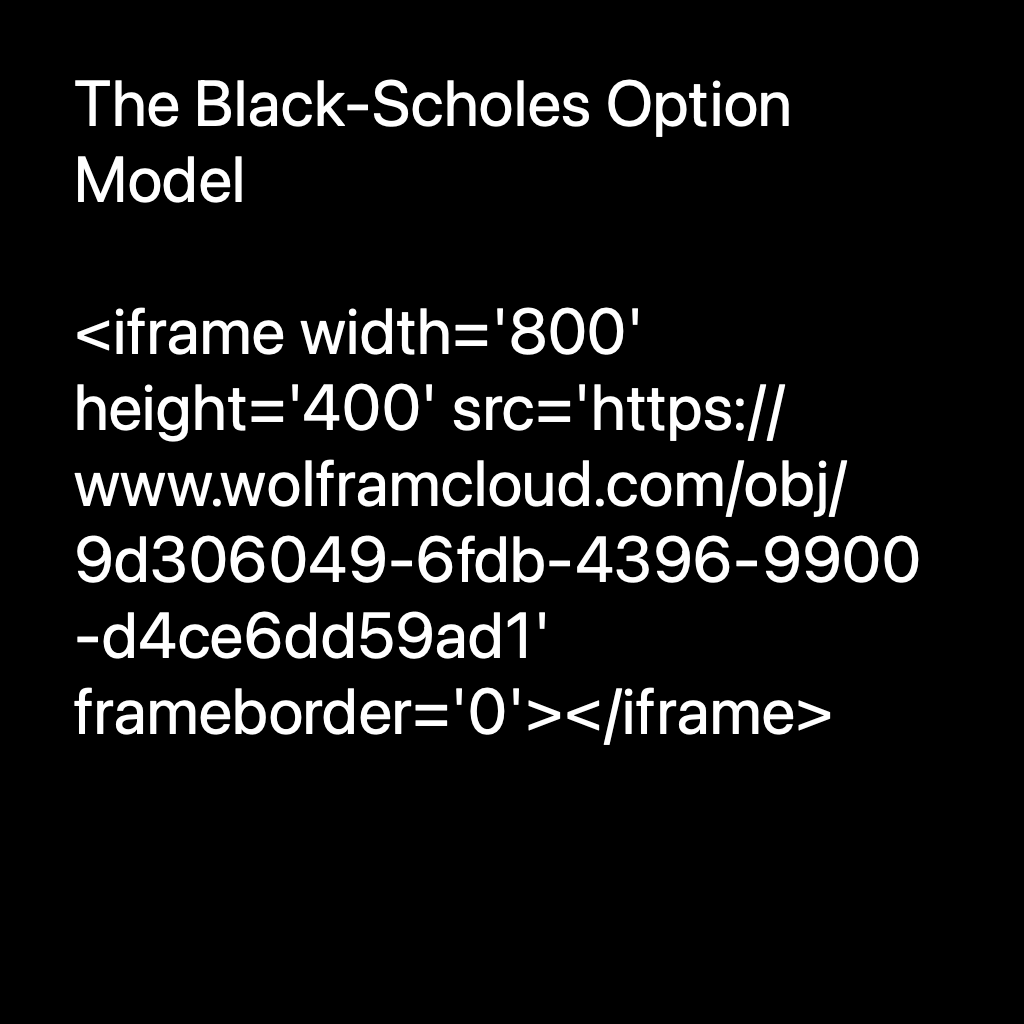
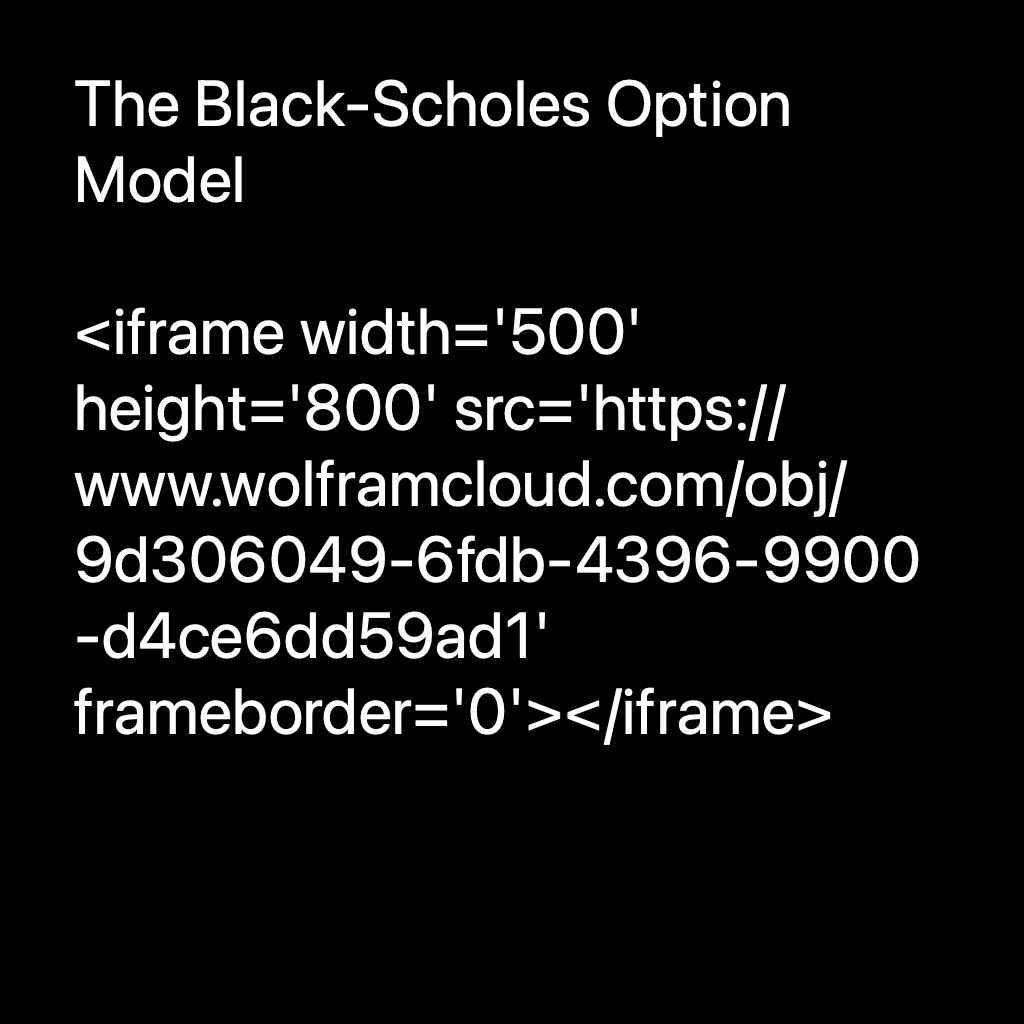
automated upload

Changed region(s): [[0.2812, 0.375, 0.5, 0.4375], [0.5625, 0.375, 0.7812, 0.4375], [0.5, 0.2812, 0.5625, 0.3438]]

diff --git a/1C5E86C9-8677-4CC0-BAE9-A2607107F91E/index.html b/1C5E86C9-8677-4CC0-BAE9-A2607107F91E/index.html
@@ -163,7 +163,7 @@
 <div class="content">
   
   
-  <iframe width='800' height='400' src='https://www.wolframcloud.com/obj/9d306049-6fdb-4396-9900-d4ce6dd59ad1' frameborder='0'></iframe>
+  <iframe width='500' height='800' src='https://www.wolframcloud.com/obj/9d306049-6fdb-4396-9900-d4ce6dd59ad1' frameborder='0'></iframe>
 
 </div>
 

diff --git a/options/index.html b/options/index.html
@@ -163,7 +163,7 @@
 <div class="content">
   
   
-  <iframe width='800' height='400' src='https://www.wolframcloud.com/obj/9d306049-6fdb-4396-9900-d4ce6dd59ad1' frameborder='0'></iframe>
+  <iframe width='500' height='800' src='https://www.wolframcloud.com/obj/9d306049-6fdb-4396-9900-d4ce6dd59ad1' frameborder='0'></iframe>
 
 </div>
 
